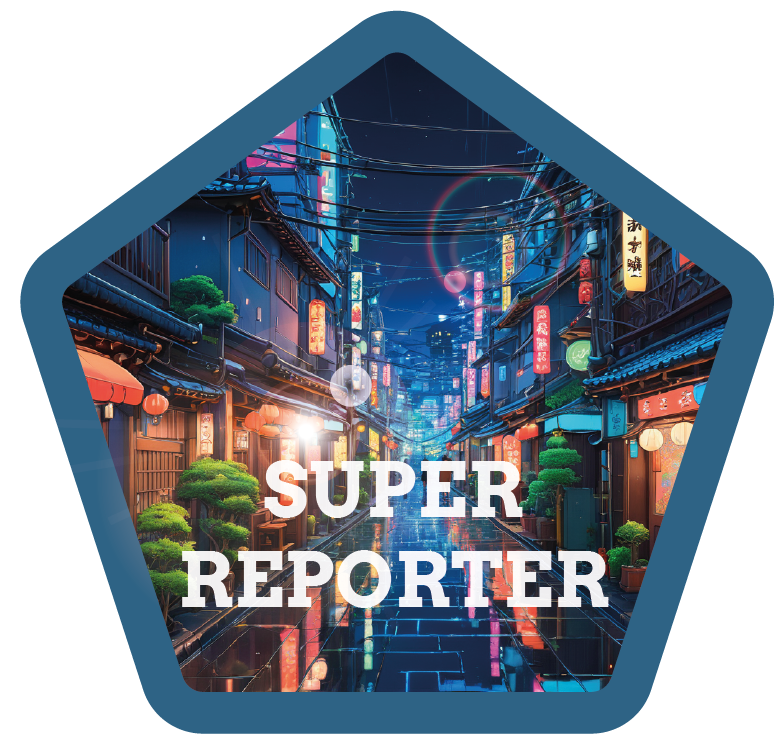
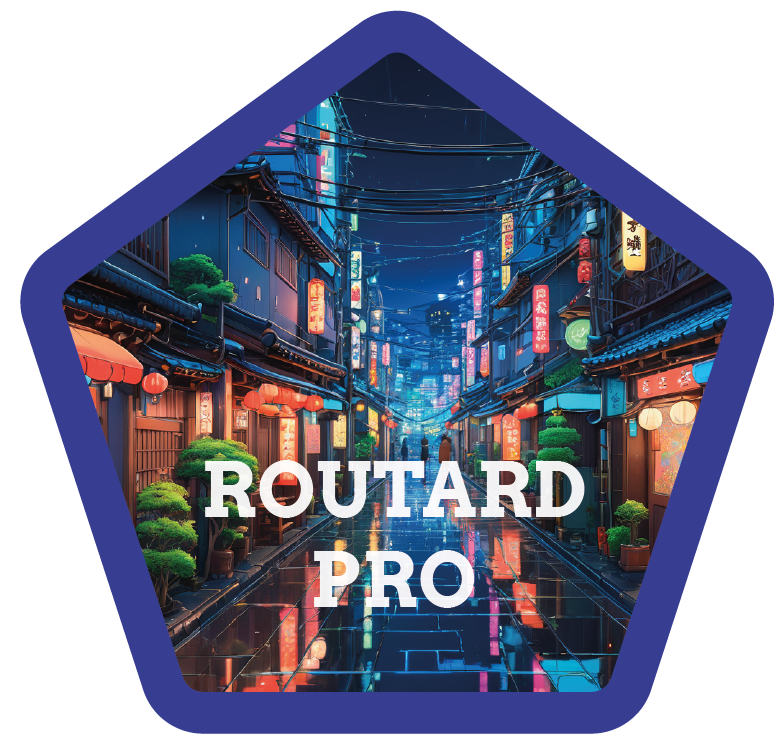
app fonctionnel avant ici. Ajout de badge. Modification js endgame + ajout function checkAndUnlockBadges pour gestion attribution des badge + mise a jour signup.js et updatescore.js pour gerer les badges

diff --git a/api/updateScore.js b/api/updateScore.js
@@ -1,98 +1,45 @@
 import clientPromise from "../lib/mongodb";
-import { ObjectId } from "mongodb";
 
 export default async function handler(req, res) {
-    if (req.method !== "POST") {
-        return res.status(405).json({ message: "Méthode non autorisée" });
-    }
+    if (req.method === "POST") {
+        try {
+            const { userId, score, locationSelect, badges } = req.body;
 
-    // Extraction des données depuis le corps de la requête
-    const { userId, score, locationSelect } = req.body; // Inclure la localisation dans les données
+            const client = await clientPromise;
+            const db = client.db("geoguessr_clone");
 
-    // Validation des données d'entrée
-    if (!userId || typeof score !== "number" || !locationSelect) {
-        console.error("Requête invalide : userId, score ou location manquant/incorrect", { userId, score, locationSelect });
-        return res.status(400).json({ message: "Données manquantes ou invalides" });
-    }
+            // Récupérer l'utilisateur
+            const user = await db.collection("users").findOne({ _id: userId });
 
-    if (!ObjectId.isValid(userId)) {
-        console.error("userId invalide :", userId);
-        return res.status(400).json({ message: "userId invalide" });
-    }
-
-    try {
-        const client = await clientPromise;
-        const db = client.db("geoguessr_clone");
-
-        const objectId = new ObjectId(userId);
-
-        // Récupérer les informations du joueur
-        const user = await db.collection("users").findOne({ _id: objectId });
-        if (!user) {
-            console.error("Utilisateur introuvable avec l'ID :", userId);
-            return res.status(404).json({ message: "Utilisateur introuvable" });
-        }
-
-        console.log("Utilisateur trouvé :", user.username);
-
-        // Calculer les nouveaux niveaux et expérience
-        const oldLevel = user.level || 1;
-        const newExperience = (user.experience || 0) + score;
-        const newLevel = Math.floor(newExperience / 50000) + 1;
-
-        // Mise à jour des informations de l'utilisateur
-        const updateResult = await db.collection("users").updateOne(
-            { _id: objectId },
-            {
-                $set: {
-                    experience: newExperience,
-                    level: newLevel,
-                    lastscore: score,
-                },
-                $push: { scores: { score, locationSelect } }, // Ajouter le score et la localisation dans l'historique des scores
+            if (!user) {
+                return res.status(404).json({ message: "Utilisateur non trouvé" });
             }
-        );
 
-        console.log("Mise à jour utilisateur :", updateResult);
+            // Mise à jour des badges
+            let updateBadges = {};
+            if (badges && badges.length > 0) {
+                badges.forEach(badge => {
+                    updateBadges[`badges.${badge}`] = true;
+                });
+            }
 
-        // Ajouter le score et la localisation dans la collection `scores`
-        const insertResult = await db.collection("scores").insertOne({
-            userId: userId,
-            username: user.username,
-            level : oldLevel,
-            score,
-            location: locationSelect, // Stocker la localisation avec le score
-        });
+            // Mettre à jour le score et les badges
+            await db.collection("users").updateOne(
+                { _id: userId },
+                { 
+                    $set: updateBadges,
+                    $push: { scores: { location: locationSelect, score } },
+                    $max: { lastscore: score }
+                }
+            );
 
-        console.log("Score inséré :", insertResult);
+            res.status(200).json({ message: "Score et badges mis à jour" });
 
-        // Récupérer les 200 meilleurs scores triés par score décroissant
-        const topScores = await db.collection("scores")
-            .find({})
-            .sort({ score: -1 })
-            .limit(200)
-            .toArray();
-
-        console.log("Top scores :", topScores);
-
-        // Supprimer les scores excédentaires s'il y a plus de 10 scores
-        const scoreIdsToKeep = topScores.map((s) => s._id);
-        const deleteResult = await db.collection("scores").deleteMany({
-            _id: { $nin: scoreIdsToKeep },
-        });
-
-        if (deleteResult.deletedCount > 0) {
-            console.log(`Scores supprimés : ${deleteResult.deletedCount}`);
+        } catch (error) {
+            console.error("Erreur lors de la mise à jour du score :", error);
+            res.status(500).json({ message: "Erreur serveur", error });
         }
-
-        // Réponse réussie
-        return res.status(200).json({
-            message: "Score mis à jour avec succès",
-            oldLevel,
-            newLevel,
-        });
-    } catch (error) {
-        console.error("Erreur lors de la mise à jour du score :", error.message, error);
-        return res.status(500).json({ message: "Erreur serveur", error: error.message });
+    } else {
+        res.status(405).json({ message: "Méthode non autorisée" });
     }
 }

diff --git a/public/script.js b/public/script.js
@@ -394,8 +394,8 @@ function locationsave(locationType) {
 
 
 async function endGame() {
-    const locationType = document.getElementById("location-select").value; // Récupérer la localisation sélectionnée
-    locationsave(locationType); // Mettre à jour selectedLocation
+    const locationType = document.getElementById("location-select").value; 
+    locationsave(locationType); 
 
     // Points bonus en fonction du mode de jeu
     const bonusPointsMap = {
@@ -422,6 +422,9 @@ async function endGame() {
         return;
     }
 
+    // Vérification des badges à débloquer
+    const unlockedBadges = checkAndUnlockBadges(finalScore, selectedLocation, chronoSelection);
+
     try {
         const response = await fetch("/api/updateScore", {
             method: "POST",
@@ -429,7 +432,7 @@ async function endGame() {
                 "Content-Type": "application/json",
                 "Authorization": `Bearer ${token}`,
             },
-            body: JSON.stringify({ userId, score: finalScore, locationSelect: locationType }), // Utilisation de selectedLocation
+            body: JSON.stringify({ userId, score: finalScore, locationSelect: locationType, badges: unlockedBadges }),
         });
 
         const data = await response.json();
@@ -437,7 +440,7 @@ async function endGame() {
         if (response.ok) {
             console.log("Score enregistré avec succès :", data);
 
-            const { oldLevel, newLevel,experience } = data;
+            const { oldLevel, newLevel, experience } = data;
             localStorage.setItem("level", newLevel);
 
             PlayerXP = experience;
@@ -445,18 +448,58 @@ async function endGame() {
             if (newLevel > oldLevel) {
                 showLevelUpAnimation(oldLevel, newLevel);
             }
+
+            // Affichage des badges débloqués
+            if (unlockedBadges.length > 0) {
+                showBadgeNotification(unlockedBadges);
+            }
+
         } else {
             console.error("Erreur lors de l'enregistrement du score :", data.message);
         }
     } catch (error) {
         console.error("Erreur réseau :", error);
     }
+
     scoreBanner.style.display = 'none';
     continueButton.style.display = 'none';
 
     fetchTopScores();
     resetGame();
 }
+
+function checkAndUnlockBadges(finalScore, location, chronoSelection) {
+    let unlockedBadges = [];
+
+    const badgeConditions = [
+        { name: "choucroute", score: 25000, location: "Strasbourg", chrono: "1s" },
+        { name: "halsacien", score: 25000, location: "Strasbourg" },
+        { name: "globetrotter", score: 15000, location: "world" },
+        { name: "conqueror", score: 20000, location: "world", chrono: "1s" },
+        { name: "croissant", score: 20000, location: "France" },
+        { name: "marine", score: 20000, location: "France", chrono: "1s" },
+        { name: "voyageur", score: 20000, location: "europe" },
+        { name: "blietzkrieg", score: 15000, location: "europe", chrono: "1s" },
+        { name: "AIGLE", score: 15000, location: "north-america", chrono: "1s" },
+        { name: "Cow-Boy", score: 15000, location: "north-america" },
+        { name: "pionnier", score: 20000, location: "north-america" },
+        { name: "ARCHEOLOGUE", score: 20000, location: "famous", chrono: "1s" },
+        { name: "REPORTER", score: 15000, location: "famous" },
+        { name: "Duc-de-Agass", score: 15000, location: "Capitales" },
+        { name: "ROUTARD-PRO", score: 20000, location: "Capitales" }
+    ];
+
+    badgeConditions.forEach(badge => {
+        if (finalScore >= badge.score && location === badge.location) {
+            if (!badge.chrono || chronoSelection === badge.chrono) {
+                unlockedBadges.push(badge.name);
+            }
+        }
+    });
+
+    return unlockedBadges;
+}
+
 
 
 

diff --git a/public/badgeList.js b/public/badgeList.js
@@ -1,4 +1,5 @@
 const badgeList = [
+    {badgeName : "Beta-Testeur", badgesrc:"./badge/betatesteur.png", badgeDesc:"Réaliser un score de 15000 points sur Capitales", valeur: "Beta Testeur"},
     {badgeName : "Eclaireur Novice", badgesrc:"./badge/5.png", badgeDesc:"Atteindre le niveau 5", valeur: 5},
     {badgeName : "Voyageur Curieux", badgesrc:"./badge/10.png", badgeDesc:"Atteindre le niveau 10", valeur: 10},
     {badgeName : "Aventurier", badgesrc:"./badge/20.png", badgeDesc:"Atteindre le niveau 20", valeur: 20},
@@ -17,7 +18,7 @@ const badgeList = [
     {badgeName : "Super Croissant", badgesrc:"./badge/croissant.png", badgeDesc:"Réaliser un score de 20000 points sur France", valeur: "croissant"},
     {badgeName : "Bleu Marine", badgesrc:"./badge/marine.png", badgeDesc:"Réaliser un score de 20000 points sur France en en mode 1s", valeur: "marine"},
     {badgeName : "Voyageur Expert", badgesrc:"./badge/voyageur.png", badgeDesc:"Réaliser un score de 20000 points sur Europe", valeur: "voyageur"},
-    {badgeName : "Euro Champion", badgesrc:"./badge/euro.png", badgeDesc:"Réaliser un score de 15000 points sur Europe en en mode 1s", valeur: "euro"},
+    {badgeName : "Blietzkrieg", badgesrc:"./badge/blitzkrieg.png", badgeDesc:"Réaliser un score de 15000 points sur Europe en en mode 1s", valeur: "blietzkrieg"},
     {badgeName : "Aigle", badgesrc:"./badge/AIGLE.png", badgeDesc:"Réaliser un score de 15000 points sur Amérique du Nord en mode 1s", valeur: "AIGLE"},
     {badgeName : "Cow-Boy", badgesrc:"./badge/cwx-boy.png", badgeDesc:"Réaliser un score de 15000 points sur Amérique du Nord", valeur: "Cow-Boy"},
     {badgeName : "Pionnier", badgesrc:"./badge/pionnier.png", badgeDesc:"Réaliser un score de 20000 points sur Amérique du Nord", valeur: "pionnier"},

diff --git a/api/signup.js b/api/signup.js
@@ -30,17 +30,38 @@ export default async function handler(req, res) {
         // Hacher le mot de passe
         const hashedPassword = await bcrypt.hash(password, 10);
 
-        // Ajouter l'utilisateur dans la base de données
-        const result = await db.collection('users').insertOne({
-            username,
-            email,
-            password: hashedPassword,
-            createdAt: new Date(),
-            experience: 0, // Initialise à 0
-            level: 1, // Niveau initial
-            lastscore: 0, // Score initial
-            scores: [], // Liste des meilleurs scores (vide au début)
-        });
+// Ajouter l'utilisateur dans la base de données
+const result = await db.collection('users').insertOne({
+    username,
+    email,
+    password: hashedPassword,
+    createdAt: new Date(),
+    betaTester: false,
+    experience: 0, // Initialise à 0
+    level: 1, // Niveau initial
+    lastscore: 0, // Score initial
+    scores: [], // Liste des meilleurs scores (vide au début)
+
+    // Initialisation des badges : tous à false par défaut
+    badges: {
+        "Beta-Testeur": false,
+        choucroute: false,
+        halsacien: false,
+        globetrotter: false,
+        conqueror: false,
+        croissant: false,
+        marine: false,
+        voyageur: false,
+        blietzkrieg: false,
+        AIGLE: false,
+        "Cow-Boy": false,
+        pionnier: false,
+        ARCHEOLOGUE: false,
+        REPORTER: false,
+        "Duc-de-Agass": false,
+        "ROUTARD-PRO": false
+    }
+});
 
         // Générer un token JWT
         const token = jwt.sign(
